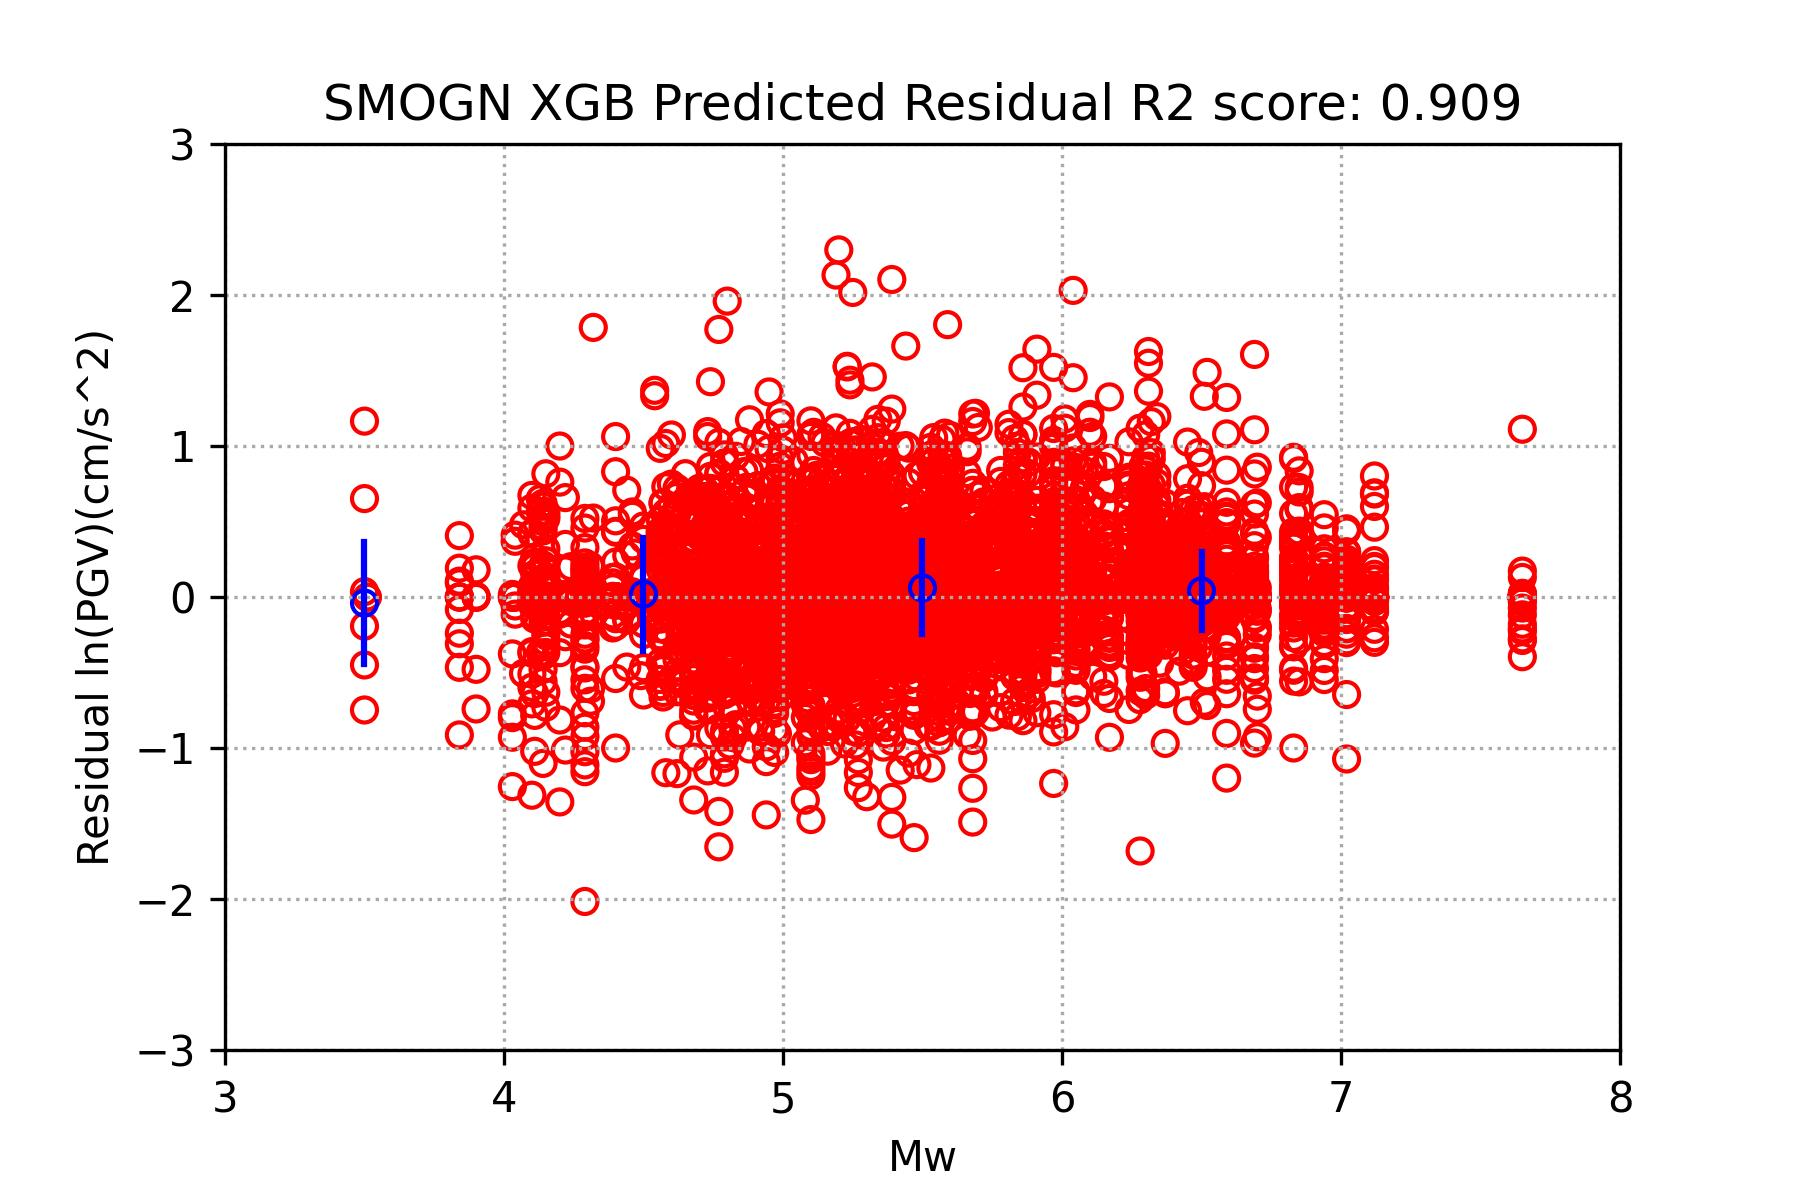
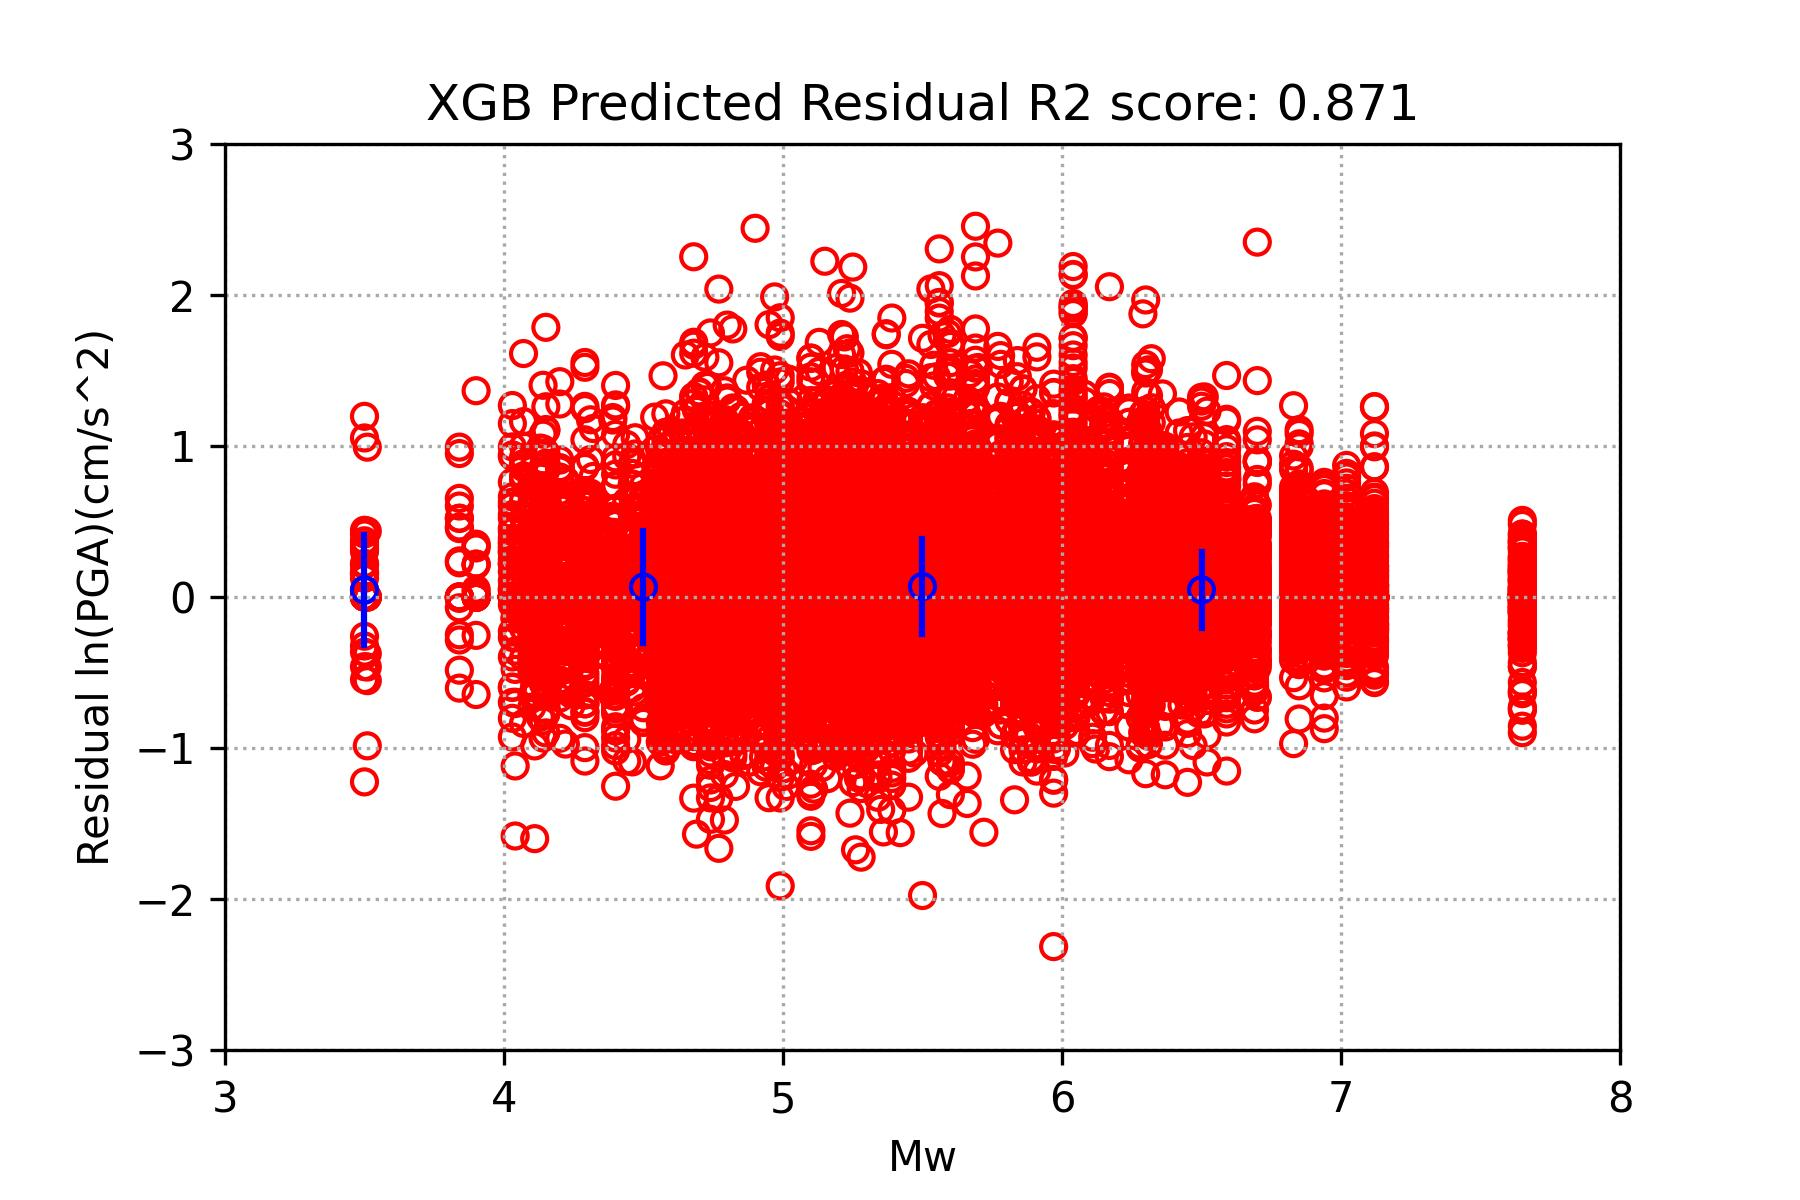
finish inter intra event residual

diff --git a/machine_learning/design_pattern/plot_figure.py b/machine_learning/design_pattern/plot_figure.py
@@ -20,10 +20,16 @@ class plot_fig:
         self.SMOGN_TSMIP = SMOGN_TSMIP
         self.target = target
 
-    def train_test_distribution(self, x_test, y_test, predict_value, fit_time,
+    def predicted_distribution(self, x_test, y_test, predict_value, fit_time,
                                 score):
 
-        ######################### trainsubset & testsubset distribution #########################
+        #######################################
+        #######################################
+        #######################################
+        ###### train & test distribution ######
+        #######################################
+        #######################################
+        #######################################
 
         # 畫 Vs30 and randomForest_predict 關係圖
         plt.grid(linestyle=':')
@@ -37,7 +43,7 @@ class plot_fig:
             label=f'predicted value (accuracy: %.2f)' % (score)) #迴歸線
         plt.xlabel('Vs30(m/s)')
         plt.ylabel(f'Predicted ln({self.target})(cm/s^2)')
-        plt.title(f'{self.model_name}')
+        plt.title(f'{self.model_name} Predicted Distribution')
         plt.legend()
         plt.savefig(
             f'../{self.abbreviation_name}/{self.SMOGN_TSMIP} Vs30-{self.abbreviation_name} Predict.jpg',
@@ -56,7 +62,7 @@ class plot_fig:
             label=f'predicted value (accuracy: %.2f)' % (score)) #迴歸線
         plt.xlabel('Mw')
         plt.ylabel(f'Predicted ln({self.target})(cm/s^2)')
-        plt.title(f'{self.model_name}')
+        plt.title(f'{self.model_name} Predicted Distribution')
         plt.legend()
         plt.savefig(
             f'../{self.abbreviation_name}/{self.SMOGN_TSMIP} Mw-{self.abbreviation_name} Predict.jpg',
@@ -75,26 +81,28 @@ class plot_fig:
             label=f'predicted value (accuracy: %.2f)' % (score)) #迴歸線
         plt.xlabel('ln(Rrup)(km)')
         plt.ylabel(f'Predicted ln({self.target})(cm/s^2)')
-        plt.title(f'{self.model_name}')
+        plt.title(f'{self.model_name} Predicted Distribution')
         plt.legend()
         plt.savefig(
             f'../{self.abbreviation_name}/{self.SMOGN_TSMIP} Rrup-{self.abbreviation_name} Predict.jpg',
             dpi=300)
         plt.show()
 
-    def residual(self, x_test, y_test, predict_value, score):
+    def residual(self, x_total, y_total, predict_value, ori_full_data, score):
 
-        ######################### residual #########################
+        ##########################
+        ##### Total Residual #####
+        ##########################
 
-        # 1. 計算Vs30_residual
-        residual = predict_value - y_test
+        # 1. Vs30 Total Residual
+        residual = predict_value - y_total
         residual_121 = []
         residual_199 = []
         residual_398 = []
         residual_794 = []
         residual_1000 = []
 
-        for index, i in enumerate(np.exp(x_test[:, 0])):
+        for index, i in enumerate(np.exp(x_total[:, 0])):
             if i >= 121 and i < 199:
                 residual_121.append(residual[index])
             elif i >= 199 and i < 398:
@@ -118,7 +126,7 @@ class plot_fig:
         residual_794_std = np.std(residual_794)
         residual_1000_std = np.std(residual_1000)
         plt.grid(linestyle=':', color='darkgrey')
-        plt.scatter(np.exp(x_test[:, 0]),
+        plt.scatter(np.exp(x_total[:, 0]),
                     residual,
                     marker='o',
                     facecolors='none',
@@ -156,21 +164,21 @@ class plot_fig:
         plt.xlabel('Vs30(m/s)')
         plt.ylabel(f'Residual ln({self.target})(cm/s^2)')
         plt.title(
-            f'{self.SMOGN_TSMIP} {self.abbreviation_name} Predicted Residual R2 score: %.3f'
-            % (score))
+            f'{self.abbreviation_name} Predicted Residual R2 score: %.3f' %
+            (score))
         plt.savefig(
             f'../{self.abbreviation_name}/{self.SMOGN_TSMIP} Vs30-{self.abbreviation_name} Predict Residual.jpg',
             dpi=300)
         plt.show()
 
-        # 2. 計算Mw_residual
-        residual = predict_value - y_test
+        # 2. Mw Toral Residual
+        residual = predict_value - y_total
         residual_3_5 = []
         residual_4_5 = []
         residual_5_5 = []
         residual_6_5 = []
 
-        for index, i in enumerate(x_test[:, 1]):
+        for index, i in enumerate(x_total[:, 1]):
             if i >= 3.5 and i < 4.5:
                 residual_3_5.append(residual[index])
             elif i >= 4.5 and i < 5.5:
@@ -191,7 +199,7 @@ class plot_fig:
         residual_6_5_std = np.std(residual_6_5)
 
         plt.grid(linestyle=':', color='darkgrey')
-        plt.scatter(x_test[:, 1],
+        plt.scatter(x_total[:, 1],
                     residual,
                     marker='o',
                     facecolors='none',
@@ -224,21 +232,21 @@ class plot_fig:
         plt.xlabel('Mw')
         plt.ylabel(f'Residual ln({self.target})(cm/s^2)')
         plt.title(
-            f'{self.SMOGN_TSMIP} {self.abbreviation_name} Predicted Residual R2 score: %.3f'
-            % (score))
+            f'{self.abbreviation_name} Predicted Residual R2 score: %.3f' %
+            (score))
         plt.savefig(
             f'../{self.abbreviation_name}/{self.SMOGN_TSMIP} Mw-{self.abbreviation_name} Predict Residual.jpg',
             dpi=300)
         plt.show()
 
-        # 3. 計算Rrup_residual
-        residual = predict_value - y_test
+        # 3. Rrup Total Residual
+        residual = predict_value - y_total
         residual_10 = []
         residual_31 = []
         residual_100 = []
         residual_316 = []
 
-        for index, i in enumerate(np.exp(x_test[:, 2])):
+        for index, i in enumerate(np.exp(x_total[:, 2])):
             if i >= 10 and i < 31:
                 residual_10.append(residual[index])
             elif i >= 31 and i < 100:
@@ -258,7 +266,7 @@ class plot_fig:
         residual_100_std = np.std(residual_100)
         residual_316_std = np.std(residual_316)
         plt.grid(linestyle=':', color='darkgrey')
-        plt.scatter(np.exp(x_test[:, 2]),
+        plt.scatter(np.exp(x_total[:, 2]),
                     residual,
                     marker='o',
                     facecolors='none',
@@ -292,14 +300,14 @@ class plot_fig:
         plt.xlabel('Rrup(km)')
         plt.ylabel(f'Residual ln({self.target})(cm/s^2)')
         plt.title(
-            f'{self.SMOGN_TSMIP} {self.abbreviation_name} Predicted Residual R2 score: %.3f'
-            % (score))
+            f'{self.abbreviation_name} Predicted Residual R2 score: %.3f' %
+            (score))
         plt.savefig(
             f'../{self.abbreviation_name}/{self.SMOGN_TSMIP} Rrup-{self.abbreviation_name} Predict Residual.jpg',
             dpi=300)
         plt.show()
 
-        # 計算總殘差分布
+        # 4. Total Residual Number Distribution
         total_num_residual = [0] * 41
         total_num_residual[10] = np.count_nonzero((residual >= -2)
                                                   & (residual < -1.8))
@@ -347,24 +355,139 @@ class plot_fig:
         x_bar = np.linspace(-4, 4, 41)
         plt.bar(x_bar, total_num_residual, edgecolor='white', width=0.2)
 
-        mu, sigma = -0.03, 0.38  # mean and standard deviation 可以改，如果分布有變的話
-        plt.text(2, 2000, f'mean = {mu}')
-        plt.text(2, 1700, f'sd = {sigma}')
+        mu = np.mean(residual)  # mean and standard deviation 可以改，如果分布有變的話
+        sigma = np.std(residual)
+        plt.text(2, 2700, f'mean = {round(mu,2)}')
+        plt.text(2, 1700, f'sd = {round(sigma,2)}')
         x_nor = np.linspace(-4, 4, 100)
-        plt.plot(
-            x_nor,
-            (1 / (sigma * np.sqrt(2 * np.pi)) * np.exp(-(x_nor - mu)**2 /
-                                                       (2 * sigma**2)) * 2500),
-            linewidth=1,
-            color='r')
+        plt.plot(x_nor, (1 / (sigma * np.sqrt(2 * np.pi)) *
+                         np.exp(-(x_nor - mu)**2 / (2 * sigma**2)) * 11000),
+                 linewidth=1,
+                 color='r')
         plt.grid(linestyle=':', color='darkgrey')
         plt.xlabel('Total-Residual')
         plt.ylabel('Numbers')
-        plt.title(
-            f'{self.SMOGN_TSMIP} {self.abbreviation_name} Total-Residual Distribution'
-        )
+        plt.title(f'{self.abbreviation_name} Total-Residual Distribution')
         plt.savefig(
-            f'../{self.abbreviation_name}/{self.SMOGN_TSMIP} Rrup-{self.abbreviation_name} Total-Residual Distribution.jpg',
+            f'../{self.abbreviation_name}/{self.SMOGN_TSMIP} {self.target} {self.abbreviation_name} Total-Residual Distribution.jpg',
+            dpi=300)
+        plt.show()
+
+        #######################################
+        #######################################
+        #######################################
+        ##### inter intra event residual  #####
+        #######################################
+        #######################################
+        #######################################
+
+        # 計算inter-event by mean value(共273顆地震)
+        originaldata_predicted_result_df = pd.DataFrame(predict_value,
+                                                        columns=['predicted'])
+        total_data_df = pd.concat(
+            [ori_full_data, originaldata_predicted_result_df], axis=1)
+        # 這裡看是否需要變log10
+        # total_data_df["residual"] = np.abs((np.exp(total_data_df["predicted"]) - np.exp(total_data_df["lnPGA(gal)"]))/980)
+        total_data_df["residual"] = total_data_df["predicted"] - total_data_df[
+            "lnPGA(gal)"]
+        
+        # build new dataframe to collect inter-event value
+        summeries = {'residual': 'mean', 'MW': 'max'}
+        inter_event = total_data_df.groupby(
+            by="EQ_ID").agg(summeries).reset_index()
+        inter_event = inter_event.rename(columns={
+            'residual': 'inter_event_residual',
+            'MW': 'Mw'
+        })
+
+        # Mw inter-event
+        Mw_yticks = [-1.5, -1.0, -0.5, 0, 0.5, 1.0, 1.5]
+        plt.grid(linestyle=':', color='darkgrey')
+        plt.scatter(inter_event['Mw'],
+                    inter_event['inter_event_residual'],
+                    marker='o',
+                    s=8,
+                    facecolors='None',
+                    edgecolors='black')
+        plt.plot([3, 8], [
+            inter_event['inter_event_residual'].mean(),
+            inter_event['inter_event_residual'].mean()
+        ],
+                 'b--',
+                 linewidth=0.5)
+        plt.xlim(3, 8)
+        plt.ylim(-1.6, 1.6)
+        plt.yticks(Mw_yticks)
+        plt.xlabel('Mw')
+        plt.ylabel(f'Inter-event Residual ln({self.target})(cm/s^2)')
+        inter_mean = round(inter_event['inter_event_residual'].mean(), 2)
+        plt.title(
+            f'{self.abbreviation_name} Inter-event Residual Mean:{inter_mean}')
+        plt.savefig(
+            f'../{self.abbreviation_name}/{self.SMOGN_TSMIP} Mw-{self.abbreviation_name} Inter-event Residual.jpg',
+            dpi=300)
+        plt.show()
+
+        # 計算intra-event by total residual - inter-event residual
+        # merge inter-event dataframe to original dataframe
+        total_data_df = pd.merge(total_data_df,
+                                 inter_event,
+                                 how='left',
+                                 on=['EQ_ID'])
+        total_data_df['intra_event_residual'] = total_data_df[
+            'residual'] - total_data_df['inter_event_residual']
+
+        # Rrup intra-event
+        Rrup_xticks = [0, 50, 100, 150, 200, 250, 300, 400, 500]
+        plt.grid(linestyle=':', color='darkgrey')
+        plt.scatter(total_data_df['Rrup'],
+                    total_data_df['intra_event_residual'],
+                    marker='o',
+                    s=8,
+                    facecolors='None',
+                    edgecolors='black')
+        plt.plot([-50, 600], [
+            total_data_df['intra_event_residual'].mean(),
+            total_data_df['intra_event_residual'].mean()
+        ],
+                 'b--',
+                 linewidth=0.5)
+        plt.xlim(-50, 600)
+        plt.xticks(Rrup_xticks)
+        plt.xlabel('Rrup(km)')
+        plt.ylabel(f'Intra-event Residual ln({self.target})(cm/s^2)')
+        intra_mean = round(total_data_df['intra_event_residual'].mean(), 2)
+        plt.title(
+            f'{self.abbreviation_name} Intra-event Residual Mean:{intra_mean}')
+        plt.savefig(
+            f'../{self.abbreviation_name}/{self.SMOGN_TSMIP} Rrup-{self.abbreviation_name} Intra-event Residual.jpg',
+            dpi=300)
+        plt.show()
+
+        # Vs30 intra-event
+        Vs30_xticks = [200, 400, 600, 800, 1000, 1200, 1400]
+        plt.grid(linestyle=':', color='darkgrey')
+        plt.scatter(total_data_df['Vs30'],
+                    total_data_df['intra_event_residual'],
+                    marker='o',
+                    s=8,
+                    facecolors='None',
+                    edgecolors='black')  #迴歸線
+        plt.plot([0, 1400], [
+            total_data_df['intra_event_residual'].mean(),
+            total_data_df['intra_event_residual'].mean()
+        ],
+                 'b--',
+                 linewidth=0.5)
+        plt.xlim(0, 1400)
+        plt.xticks(Vs30_xticks)
+        plt.xlabel('Vs30(m/s)')
+        plt.ylabel(f'Intra-event Residual ln({self.target})(cm/s^2)')
+        intra_mean = round(total_data_df['intra_event_residual'].mean(), 2)
+        plt.title(
+            f'{self.abbreviation_name} Intra-event Residual Mean:{intra_mean}')
+        plt.savefig(
+            f'../{self.abbreviation_name}/{self.SMOGN_TSMIP} Vs30-{self.abbreviation_name} Intra-event Residual.jpg',
             dpi=300)
         plt.show()
 
@@ -390,7 +513,7 @@ class plot_fig:
         plt.text(5, 0, f"R2 score = {round(score,2)}")
         plt.legend()
         plt.savefig(
-            f'../{self.abbreviation_name}/{self.SMOGN_TSMIP} Measured Predict Comparison.jpg',
+            f'../{self.abbreviation_name}/{self.SMOGN_TSMIP} {self.target} {self.abbreviation_name} Measured Predicted Comparison.jpg',
             dpi=300)
         plt.show()
 

diff --git a/machine_learning/XGB/XGB_TSMIP.py b/machine_learning/XGB/XGB_TSMIP.py
@@ -35,13 +35,12 @@ score, feature_importances, fit_time, final_predict, ML_model = model.training(
 originaldata_predicted_result = model.predicted_original(
     ML_model, original_data)
 
-residual = final_predict - result_ori[3]
 
-# plot_something = plot_fig("XGBooster", "XGB", "SMOGN", target)
-# plot_something.train_test_distribution(result_ori[1], result_ori[3],
-#                                        final_predict, fit_time, score)
-# plot_something.residual(result_ori[1], result_ori[3], final_predict, score) 
-# plot_something.measured_predict(result_ori[3], final_predict, score) # 應該要改成全部的資料
+plot_something = plot_fig("XGBooster", "XGB", "SMOGN", target)
+plot_something.predicted_distribution(result_ori[1], result_ori[3],
+                                       final_predict, fit_time, score)
+plot_something.residual(original_data[0], original_data[1], originaldata_predicted_result, after_process_ori_data, score)
+# plot_something.measured_predict(original_data[1], originaldata_predicted_result, score)
 # minVs30 = 480
 # maxVs30 = 760
 # minMw = 4.0
@@ -51,32 +50,3 @@ residual = final_predict - result_ori[3]
 #                                 minVs30, maxVs30, minMw, maxMw, faulttype,
 #                                 score,5)
 
-originaldata_predicted_result_df = pd.DataFrame(originaldata_predicted_result, columns=['predicted'])
-total_data_df = pd.concat([after_process_ori_data,originaldata_predicted_result_df],axis=1)
-total_data_df["residual"] = np.abs((np.exp(total_data_df["predicted"]) - np.exp(total_data_df["lnPGA(gal)"]))/980)
-
-# 重複數據 273顆地震
-summeries = {'residual': 'mean','MW': 'max'}
-inter_event = total_data_df.groupby(by="EQ_ID").agg(summeries).reset_index()
-inter_event = inter_event.rename(columns = {'residual':'inter_event_residual','MW':'Mw'})
-
-plt.grid(linestyle=':', color='darkgrey')
-plt.scatter(inter_event['Mw'],
-            inter_event['inter_event_residual'],
-            marker='o',
-            facecolors='none',
-            edgecolors='r')  #迴歸線
-plt.show()
-
-total_data_df = pd.merge(total_data_df, inter_event, how='left', on=['EQ_ID'])
-total_data_df['intra_event_residual'] = total_data_df['residual'] - total_data_df['inter_event_residual']
-
-xticks = [0, 50, 100, 150, 200, 250, 300, 400, 500]
-plt.grid(linestyle=':', color='darkgrey')
-plt.scatter(total_data_df['Rrup'],
-            total_data_df['intra_event_residual'],
-            marker='o',
-            facecolors='none',
-            edgecolors='r')  #迴歸線
-plt.xticks(xticks)
-plt.show()
